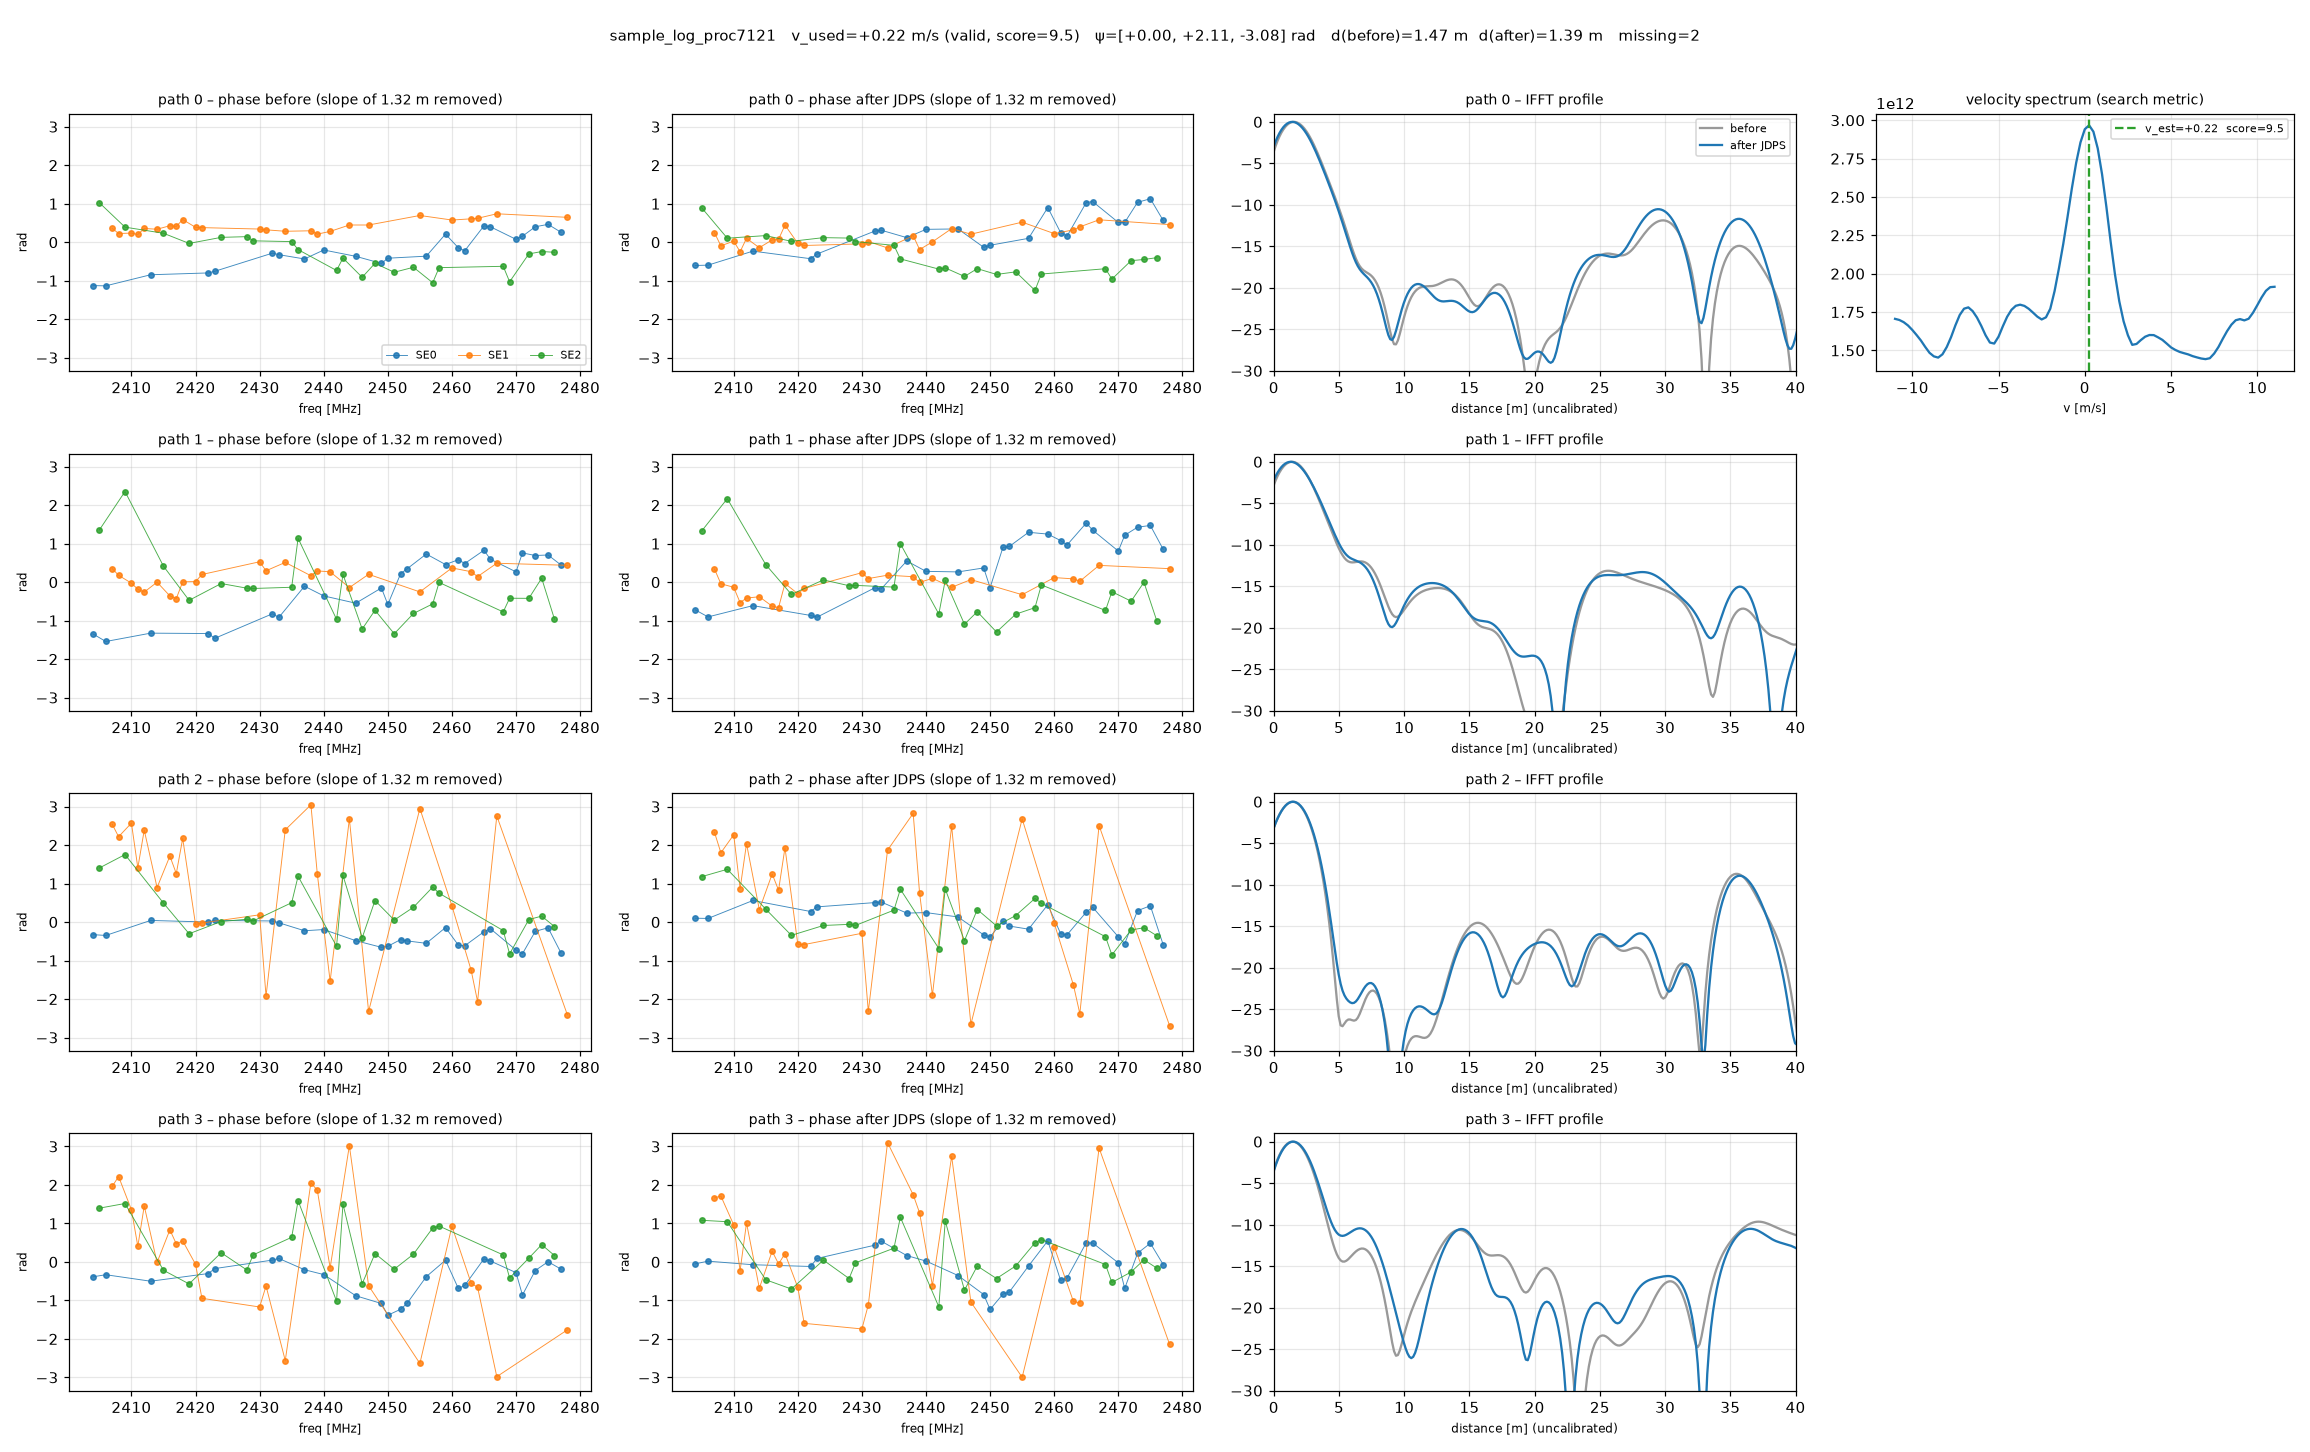
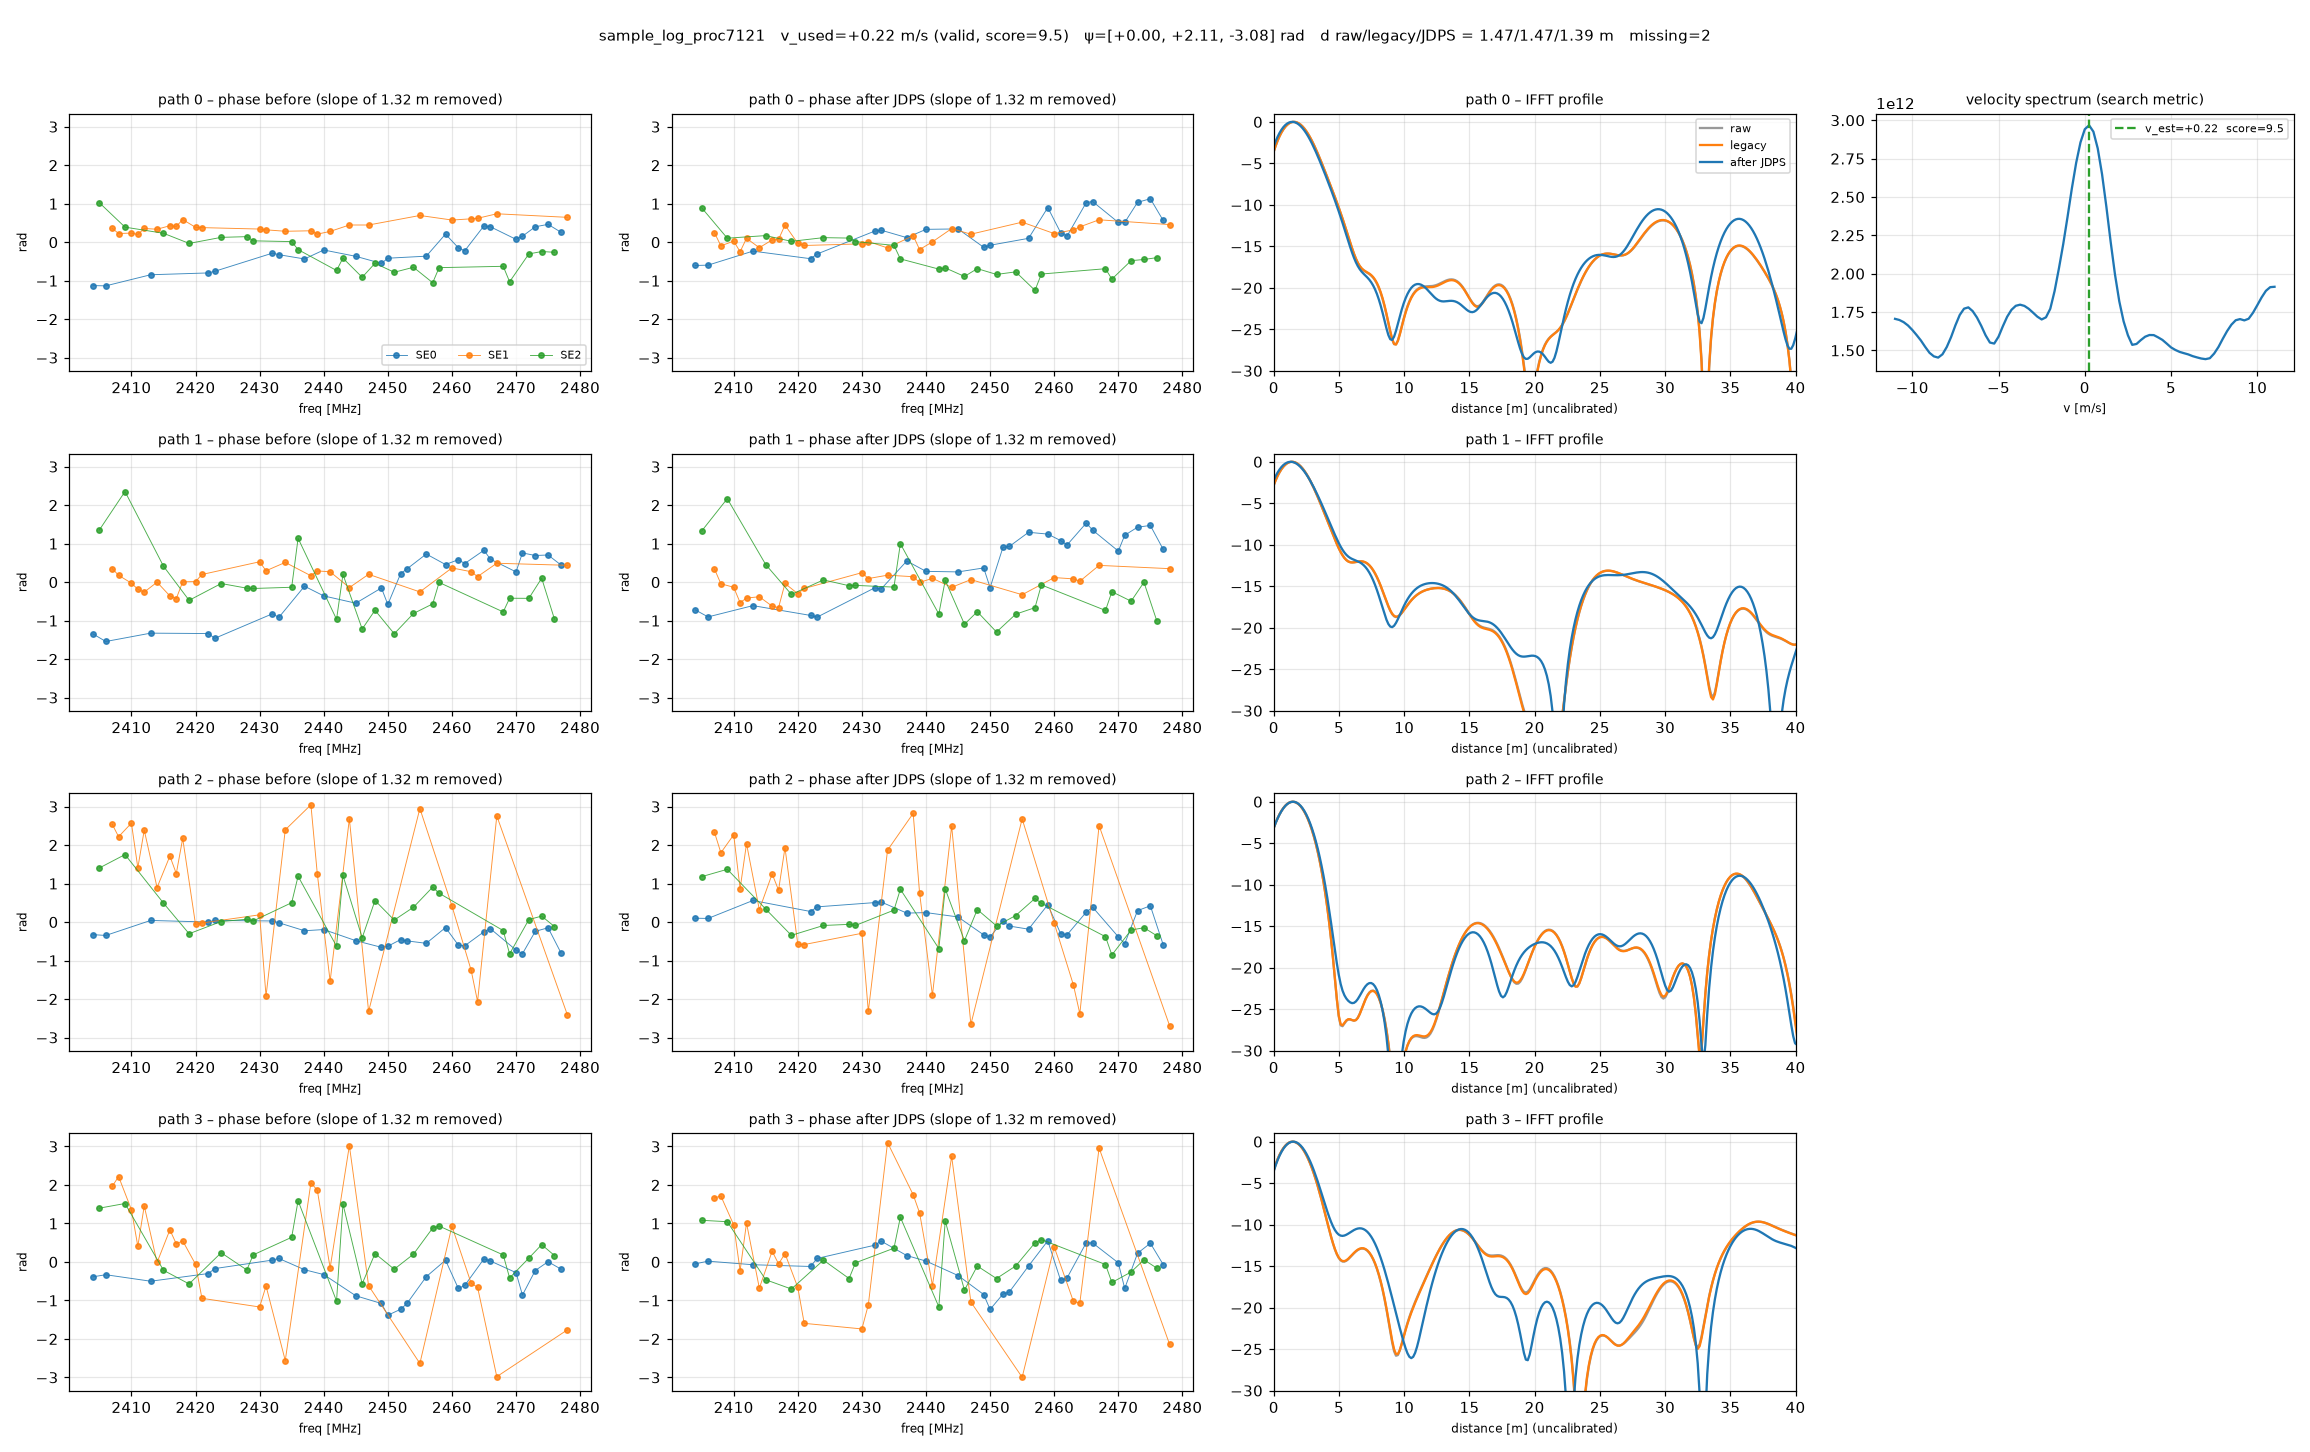
log replay: save distance and velocity before (raw, legacy) and after (JDPS) optimisation
- summary.csv: d_raw / d_legacy / d_jdps, v_legacy / v_jdps (+ JDPS validity, score, psi)
- per_antenna.csv: per-path distance for the three methods
- trend.png: distance / velocity vs procedure; IFFT panel also shows legacy

Claude-Session: https://claude.ai/code/session_0142r7uaHEiUVatcCyvji7vw

diff --git a/cs_agc/log_replay.py b/cs_agc/log_replay.py
@@ -8,6 +8,15 @@ IQ entries are indexed by channel (0..79), not by hop order.
 
 Usage:
     python -m cs_agc.log_replay LOG [LOG ...] --out log_plots [--split 25,25,22]
+
+Outputs (in --out):
+    <log>_proc<ts>.png   phase before / after, IFFT profiles, velocity spectrum
+    summary.csv          one row per procedure: distance + velocity for
+                           raw    : no compensation
+                           legacy : current single-subevent Doppler method (before optimisation)
+                           jdps   : JDPS (after optimisation)
+    per_antenna.csv      distance per antenna path for the same three methods
+    trend.png            distance / velocity vs procedure (when > 1 procedure)
 """
 import argparse
 import csv
@@ -20,7 +29,7 @@ matplotlib.use("Agg")
 import matplotlib.pyplot as plt
 import numpy as np
 
-from .algorithms import JdpsCfg, jdps
+from .algorithms import JdpsCfg, jdps, legacy
 from .ranging import delay_profile, estimate_distance, to_grid
 from .sim_model import C, CS_CHANNELS, DF, F0
 
@@ -110,7 +119,7 @@ def build_measurement(proc, split, n_mode0, tcfg, combine="mul"):
 SE_COLORS = ["#1f77b4", "#ff7f0e", "#2ca02c", "#d62728", "#9467bd", "#8c564b"]
 
 
-def plot_proc(ms, y_c, info, d_before, d_after, title, path):
+def plot_proc(ms, y_c, y_leg, info, d, title, path):
     A, K = ms.y.shape[0], ms.se.max() + 1
     order = np.argsort(ms.f)
     # remove the strongest-path slope (from the compensated profile) so jumps are visible
@@ -136,7 +145,8 @@ def plot_proc(ms, y_c, info, d_before, d_after, title, path):
             if a == 0 and col == 0:
                 axx.legend(fontsize=7, ncol=K, loc="lower right")
         axx = ax[a, 2]
-        for yy, lab, c in [(ms.y[a:a + 1], "before", "#999999"), (y_c[a:a + 1], "after JDPS", "#1f77b4")]:
+        for yy, lab, c in [(ms.y[a:a + 1], "raw", "#999999"), (y_leg[a:a + 1], "legacy", "#ff7f0e"),
+                           (y_c[a:a + 1], "after JDPS", "#1f77b4")]:
             dd, pp = delay_profile(to_grid(yy, ms.ch))
             axx.plot(dd, 10 * np.log10(pp / pp.max() + 1e-12), color=c, label=lab)
         axx.set_xlim(0, 40), axx.set_ylim(-30, 1), axx.grid(alpha=0.3)
@@ -158,7 +168,8 @@ def plot_proc(ms, y_c, info, d_before, d_after, title, path):
     v_state = "valid" if info["v_valid"] else ("EDGE -> v=0" if info["v_at_edge"] else "LOW SCORE -> v=0")
     fig.suptitle(f"{title}   v_used={info['v_used']:+.2f} m/s ({v_state}, score={info['v_score']:.1f})   "
                  f"ψ=[{', '.join(f'{p:+.2f}' for p in np.ravel(psi))}] rad   "
-                 f"d(before)={d_before:.2f} m  d(after)={d_after:.2f} m   missing={len(ms.missing)}",
+                 f"d raw/legacy/JDPS = {d['raw']:.2f}/{d['legacy']:.2f}/{d['jdps']:.2f} m   "
+                 f"missing={len(ms.missing)}",
                  fontsize=10)
     fig.tight_layout(rect=(0, 0, 1, 0.97))
     fig.savefig(path, dpi=110)
@@ -186,7 +197,7 @@ def main():
                 t_step=(a.t_meas_us + a.t_gap_us) * 1e-6, se_gap=a.se_gap_ms * 1e-3)
     jcfg = JdpsCfg(v_max=a.v_max, per_ant_theta=a.per_ant)
     os.makedirs(a.out, exist_ok=True)
-    rows = []
+    rows, ant_rows = [], []
     for log in a.logs:
         stem = os.path.splitext(os.path.basename(log))[0]
         for proc in parse_log(log):
@@ -202,19 +213,60 @@ def main():
             if info["status"] == "no_signal":
                 print(f"skip: proc {proc['ts']}: no usable IQ (all zero after local x remote)")
                 continue
-            d_b, d_a = estimate_distance(ms.y, ms.ch), estimate_distance(y_c, ms.ch)
+            y_leg, _, v_leg = legacy(ms, jcfg.v_grid)            # before optimisation
+            outs = {"raw": ms.y, "legacy": y_leg, "jdps": y_c}
+            d = {k: float(estimate_distance(y, ms.ch)) for k, y in outs.items()}
             name = f"{stem}_proc{proc['ts']}"
-            plot_proc(ms, y_c, info, d_b, d_a, name, os.path.join(a.out, name + ".png"))
-            rows.append(dict(log=stem, proc=proc["ts"], v_est=round(float(info["v_hat"]), 3),
-                             v_used=round(float(info["v_used"]), 3), v_valid=int(info["v_valid"]),
-                             v_score=round(info["v_score"], 2), no_iq_paths=len(ms.no_iq),
+            plot_proc(ms, y_c, y_leg, info, d, name, os.path.join(a.out, name + ".png"))
+            rows.append(dict(log=stem, proc=proc["ts"],
+                             d_raw=round(d["raw"], 3), d_legacy=round(d["legacy"], 3),
+                             d_jdps=round(d["jdps"], 3),
+                             v_legacy=round(float(v_leg), 3), v_jdps=round(float(info["v_used"]), 3),
+                             v_jdps_est=round(float(info["v_hat"]), 3), v_jdps_valid=int(info["v_valid"]),
+                             v_jdps_score=round(info["v_score"], 2),
                              psi=" ".join(f"{p:.3f}" for p in np.ravel(info["psi"])),
-                             d_before=round(d_b, 3), d_after=round(d_a, 3), missing=len(ms.missing)))
+                             missing=len(ms.missing), no_iq_paths=len(ms.no_iq)))
+            for ai, ant in enumerate(ms.ants):
+                ant_rows.append(dict(log=stem, proc=proc["ts"], path=ant,
+                                     **{f"d_{k}": round(float(estimate_distance(y[ai:ai + 1], ms.ch)), 3)
+                                        for k, y in outs.items()}))
             print(rows[-1])
     if rows:
-        with open(os.path.join(a.out, "summary.csv"), "w", newline="") as fp:
-            w = csv.DictWriter(fp, fieldnames=list(rows[0]))
-            w.writeheader(), w.writerows(rows)
+        write_csv(os.path.join(a.out, "summary.csv"), rows)
+        write_csv(os.path.join(a.out, "per_antenna.csv"), ant_rows)
+        if len(rows) > 1:
+            plot_trend(rows, os.path.join(a.out, "trend.png"))
+        print(f"saved {len(rows)} procedure(s) to {a.out}/summary.csv, per_antenna.csv")
+
+
+def write_csv(path, rows):
+    with open(path, "w", newline="") as fp:
+        w = csv.DictWriter(fp, fieldnames=list(rows[0]))
+        w.writeheader()
+        w.writerows(rows)
+
+
+def plot_trend(rows, path):
+    """Distance and velocity of every procedure: raw / legacy (before) / JDPS (after)."""
+    x = np.arange(len(rows))
+    fig, ax = plt.subplots(2, 1, figsize=(12, 7), sharex=True)
+    for key, lab, c in [("d_raw", "raw", "#999999"), ("d_legacy", "legacy (before)", "#ff7f0e"),
+                        ("d_jdps", "JDPS (after)", "#1f77b4")]:
+        ax[0].plot(x, [r[key] for r in rows], "o-", ms=3, lw=1, color=c, label=lab)
+    ax[0].set_ylabel("distance [m] (uncalibrated)")
+    ax[0].legend(fontsize=8), ax[0].grid(alpha=0.3)
+    ax[1].plot(x, [r["v_legacy"] for r in rows], "o-", ms=3, lw=1, color="#ff7f0e", label="legacy (before)")
+    ax[1].plot(x, [r["v_jdps"] for r in rows], "o-", ms=3, lw=1, color="#1f77b4", label="JDPS applied")
+    bad = [i for i, r in enumerate(rows) if not r["v_jdps_valid"]]
+    ax[1].plot(bad, [rows[i]["v_jdps_est"] for i in bad], "x", color="#d62728",
+               label="JDPS rejected estimate (v=0 applied)")
+    ax[1].set_ylabel("velocity [m/s]"), ax[1].set_xlabel("procedure index")
+    ax[1].legend(fontsize=8), ax[1].grid(alpha=0.3)
+    ax[1].set_xticks(x[::max(1, len(x) // 20)])
+    ax[1].set_xticklabels([str(rows[i]["proc"]) for i in x[::max(1, len(x) // 20)]], rotation=45, fontsize=7)
+    fig.tight_layout()
+    fig.savefig(path, dpi=110)
+    plt.close(fig)
 
 
 if __name__ == "__main__":

diff --git a/README.md b/README.md
@@ -14,12 +14,16 @@ python -m cs_agc.run_sim --trials 400 --out results   # 4 核约 3 分钟
 ## 实测 log 回放
 
 ```bash
-python -m cs_agc.log_replay data/*.txt --out log_plots          # 每个 procedure 一张图 + summary.csv
+python -m cs_agc.log_replay data/*.txt --out log_plots          # 每个 procedure 一张图 + CSV
 # 常用参数：--split 25,25,22  --se-gap-ms 40  --per-ant  --combine mul|conj  --n-mode0 1
 ```
 - 解析 `ch_idx_list`（第 1 个为 mode0，跳过）与 4 路 `[iq_data]`（R=0 本地 / R=1 远端，按信道号索引），PBR 取 local×remote。
 - log 打印截断造成的损坏条目会被丢弃（置 0，不参与配对和 IFFT），图标题里的 `missing` 为丢弃数。
 - 每张图：每路天线一行，分别为补偿前相位、补偿后相位（去掉最强径斜率，按 subevent 着色）、IFFT 距离谱对比；右上角为速度谱，标题给出 v 是否可信（score、是否落在边界）。
+- 输出文件：
+  - `summary.csv`：每个 procedure 一行，保存三种处理下的测距值和速度值：raw（不补偿）、legacy（优化前，现有单 subevent 多普勒算法）、jdps（优化后）。字段为 `d_raw / d_legacy / d_jdps`、`v_legacy / v_jdps`，以及 JDPS 的 `v_jdps_est / v_jdps_valid / v_jdps_score` 和各 subevent 相位 `psi`。
+  - `per_antenna.csv`：每个 procedure、每路天线一行，保存三种处理下的测距值。
+  - `trend.png`：多于 1 个 procedure 时生成，画出距离和速度随 procedure 的变化。
 - 远端 IQ 按 log 中 `local iq ts / remote iq ts` 的对应关系配对；某路天线缺本地或远端 IQ 时打印 warn，全部缺失（全 0）时跳过该次测量。
 
 ## C 模块（MCU 移植，协议无关）
